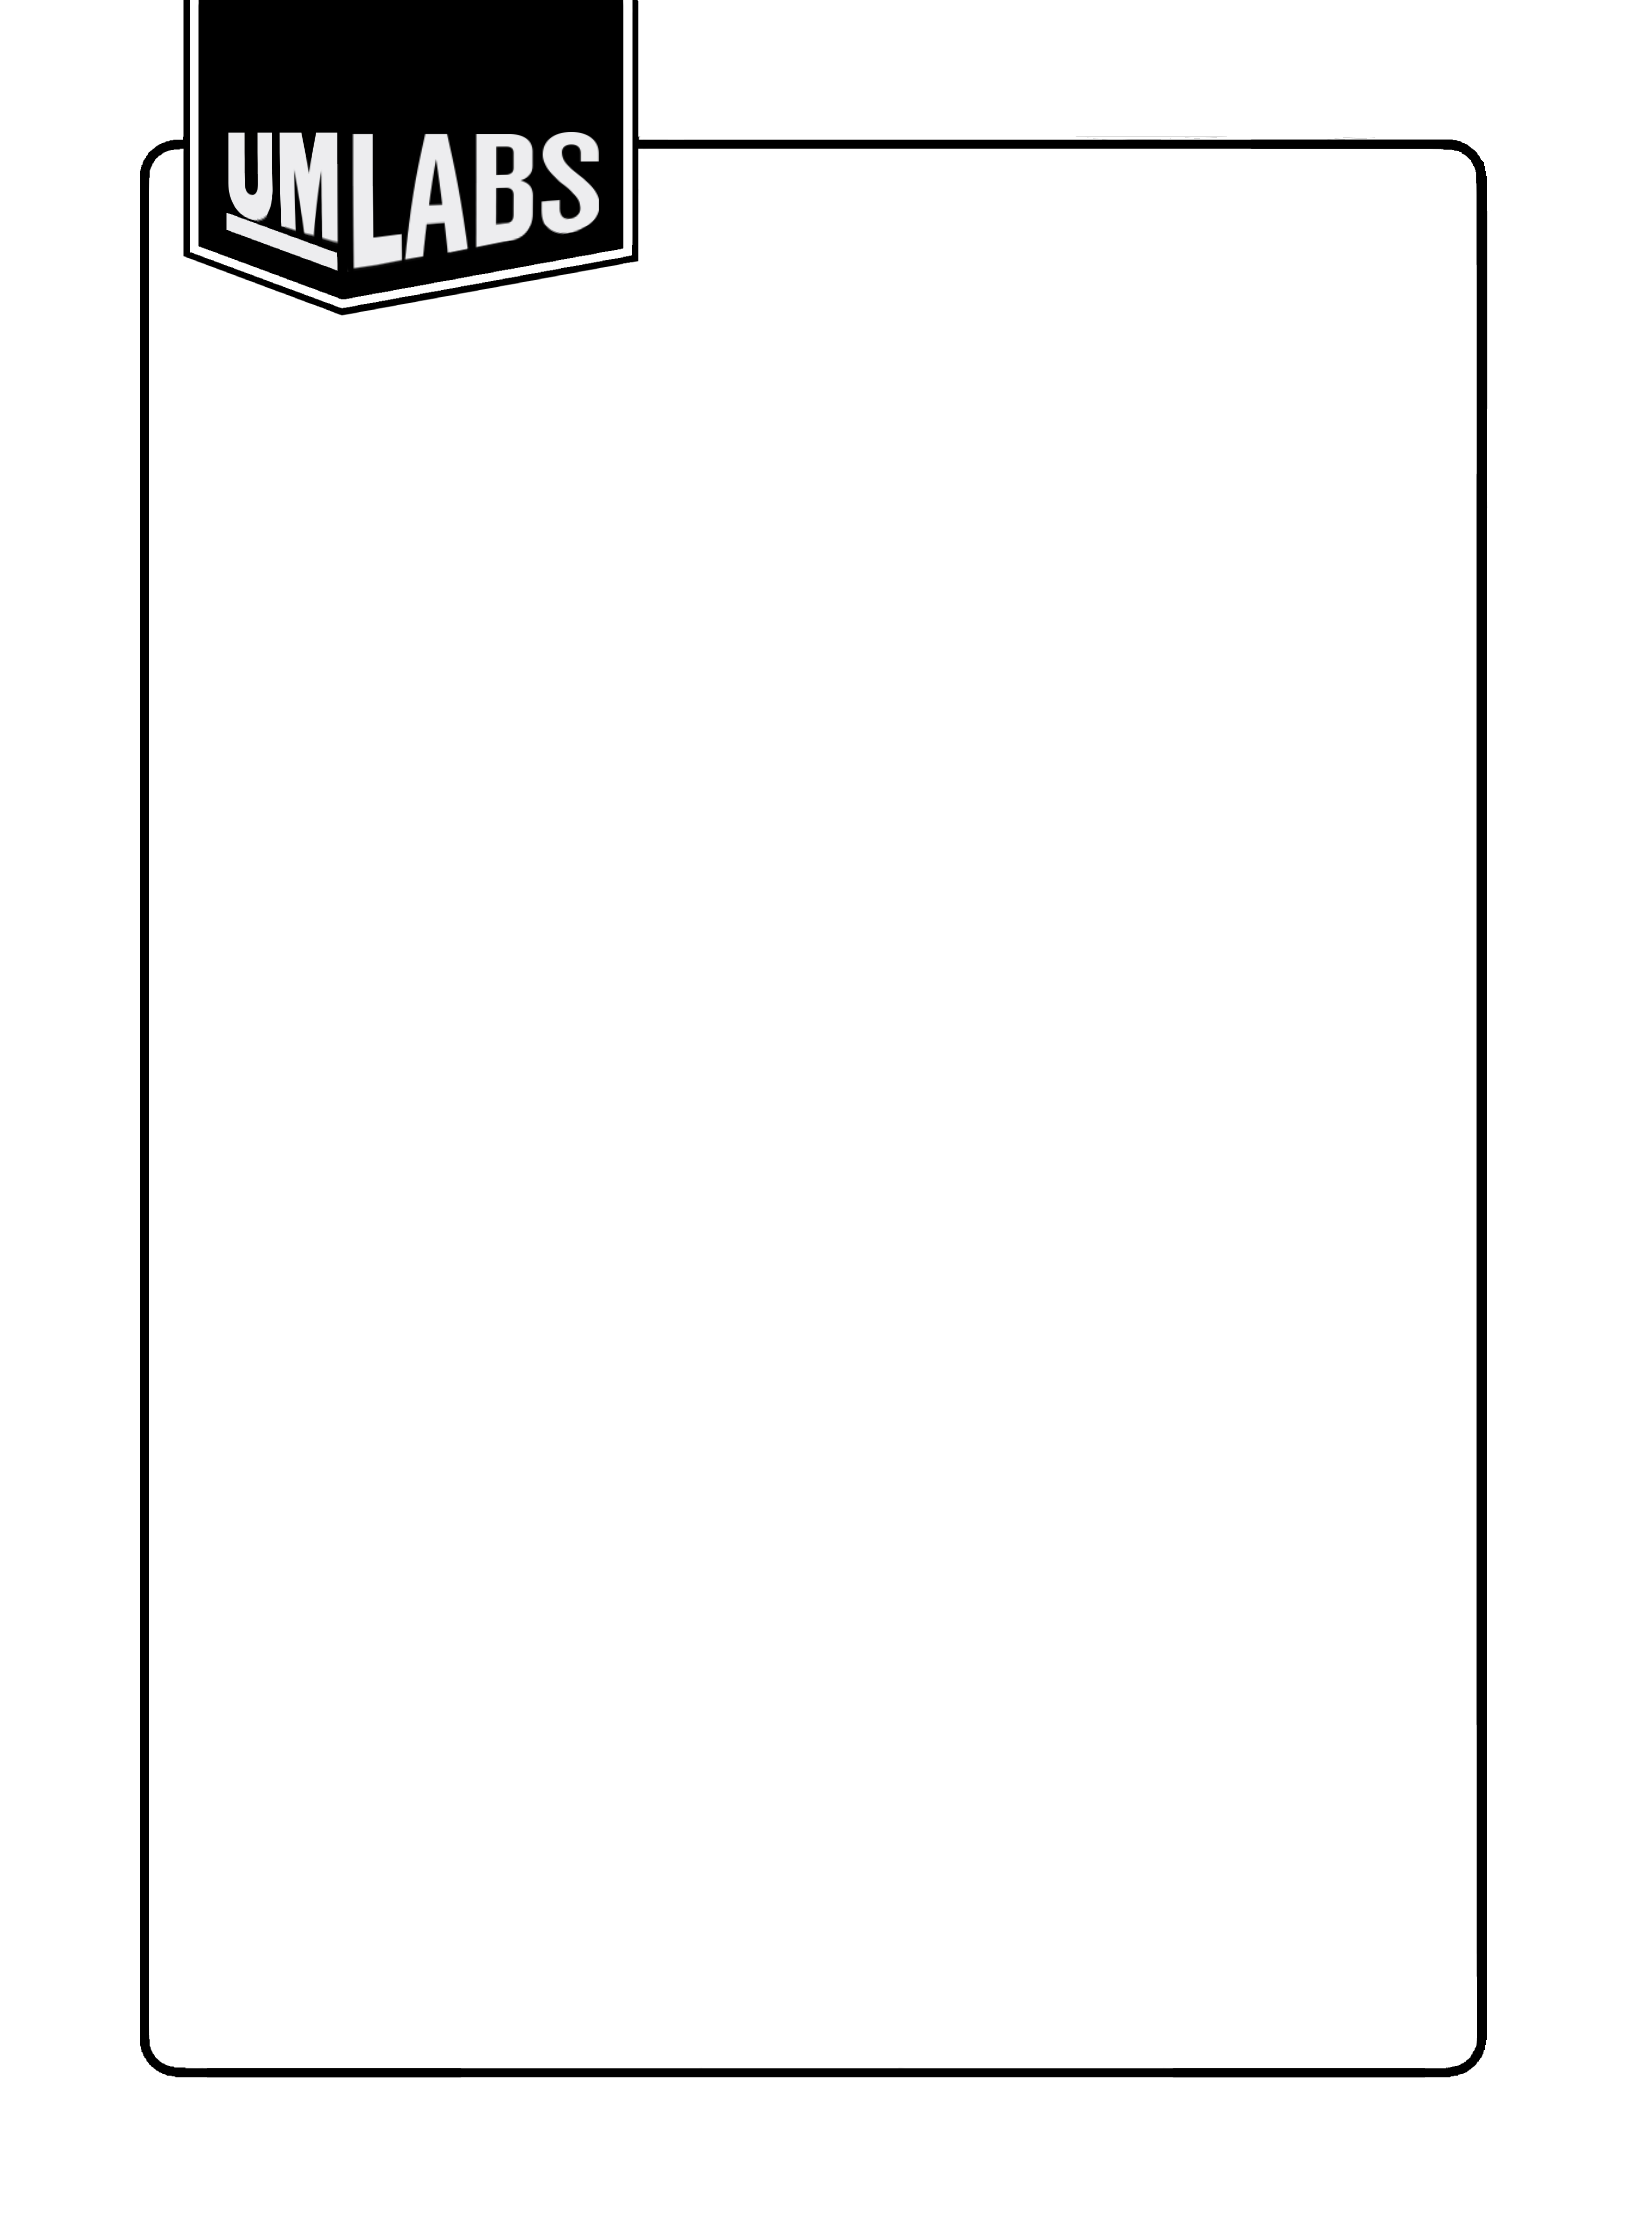
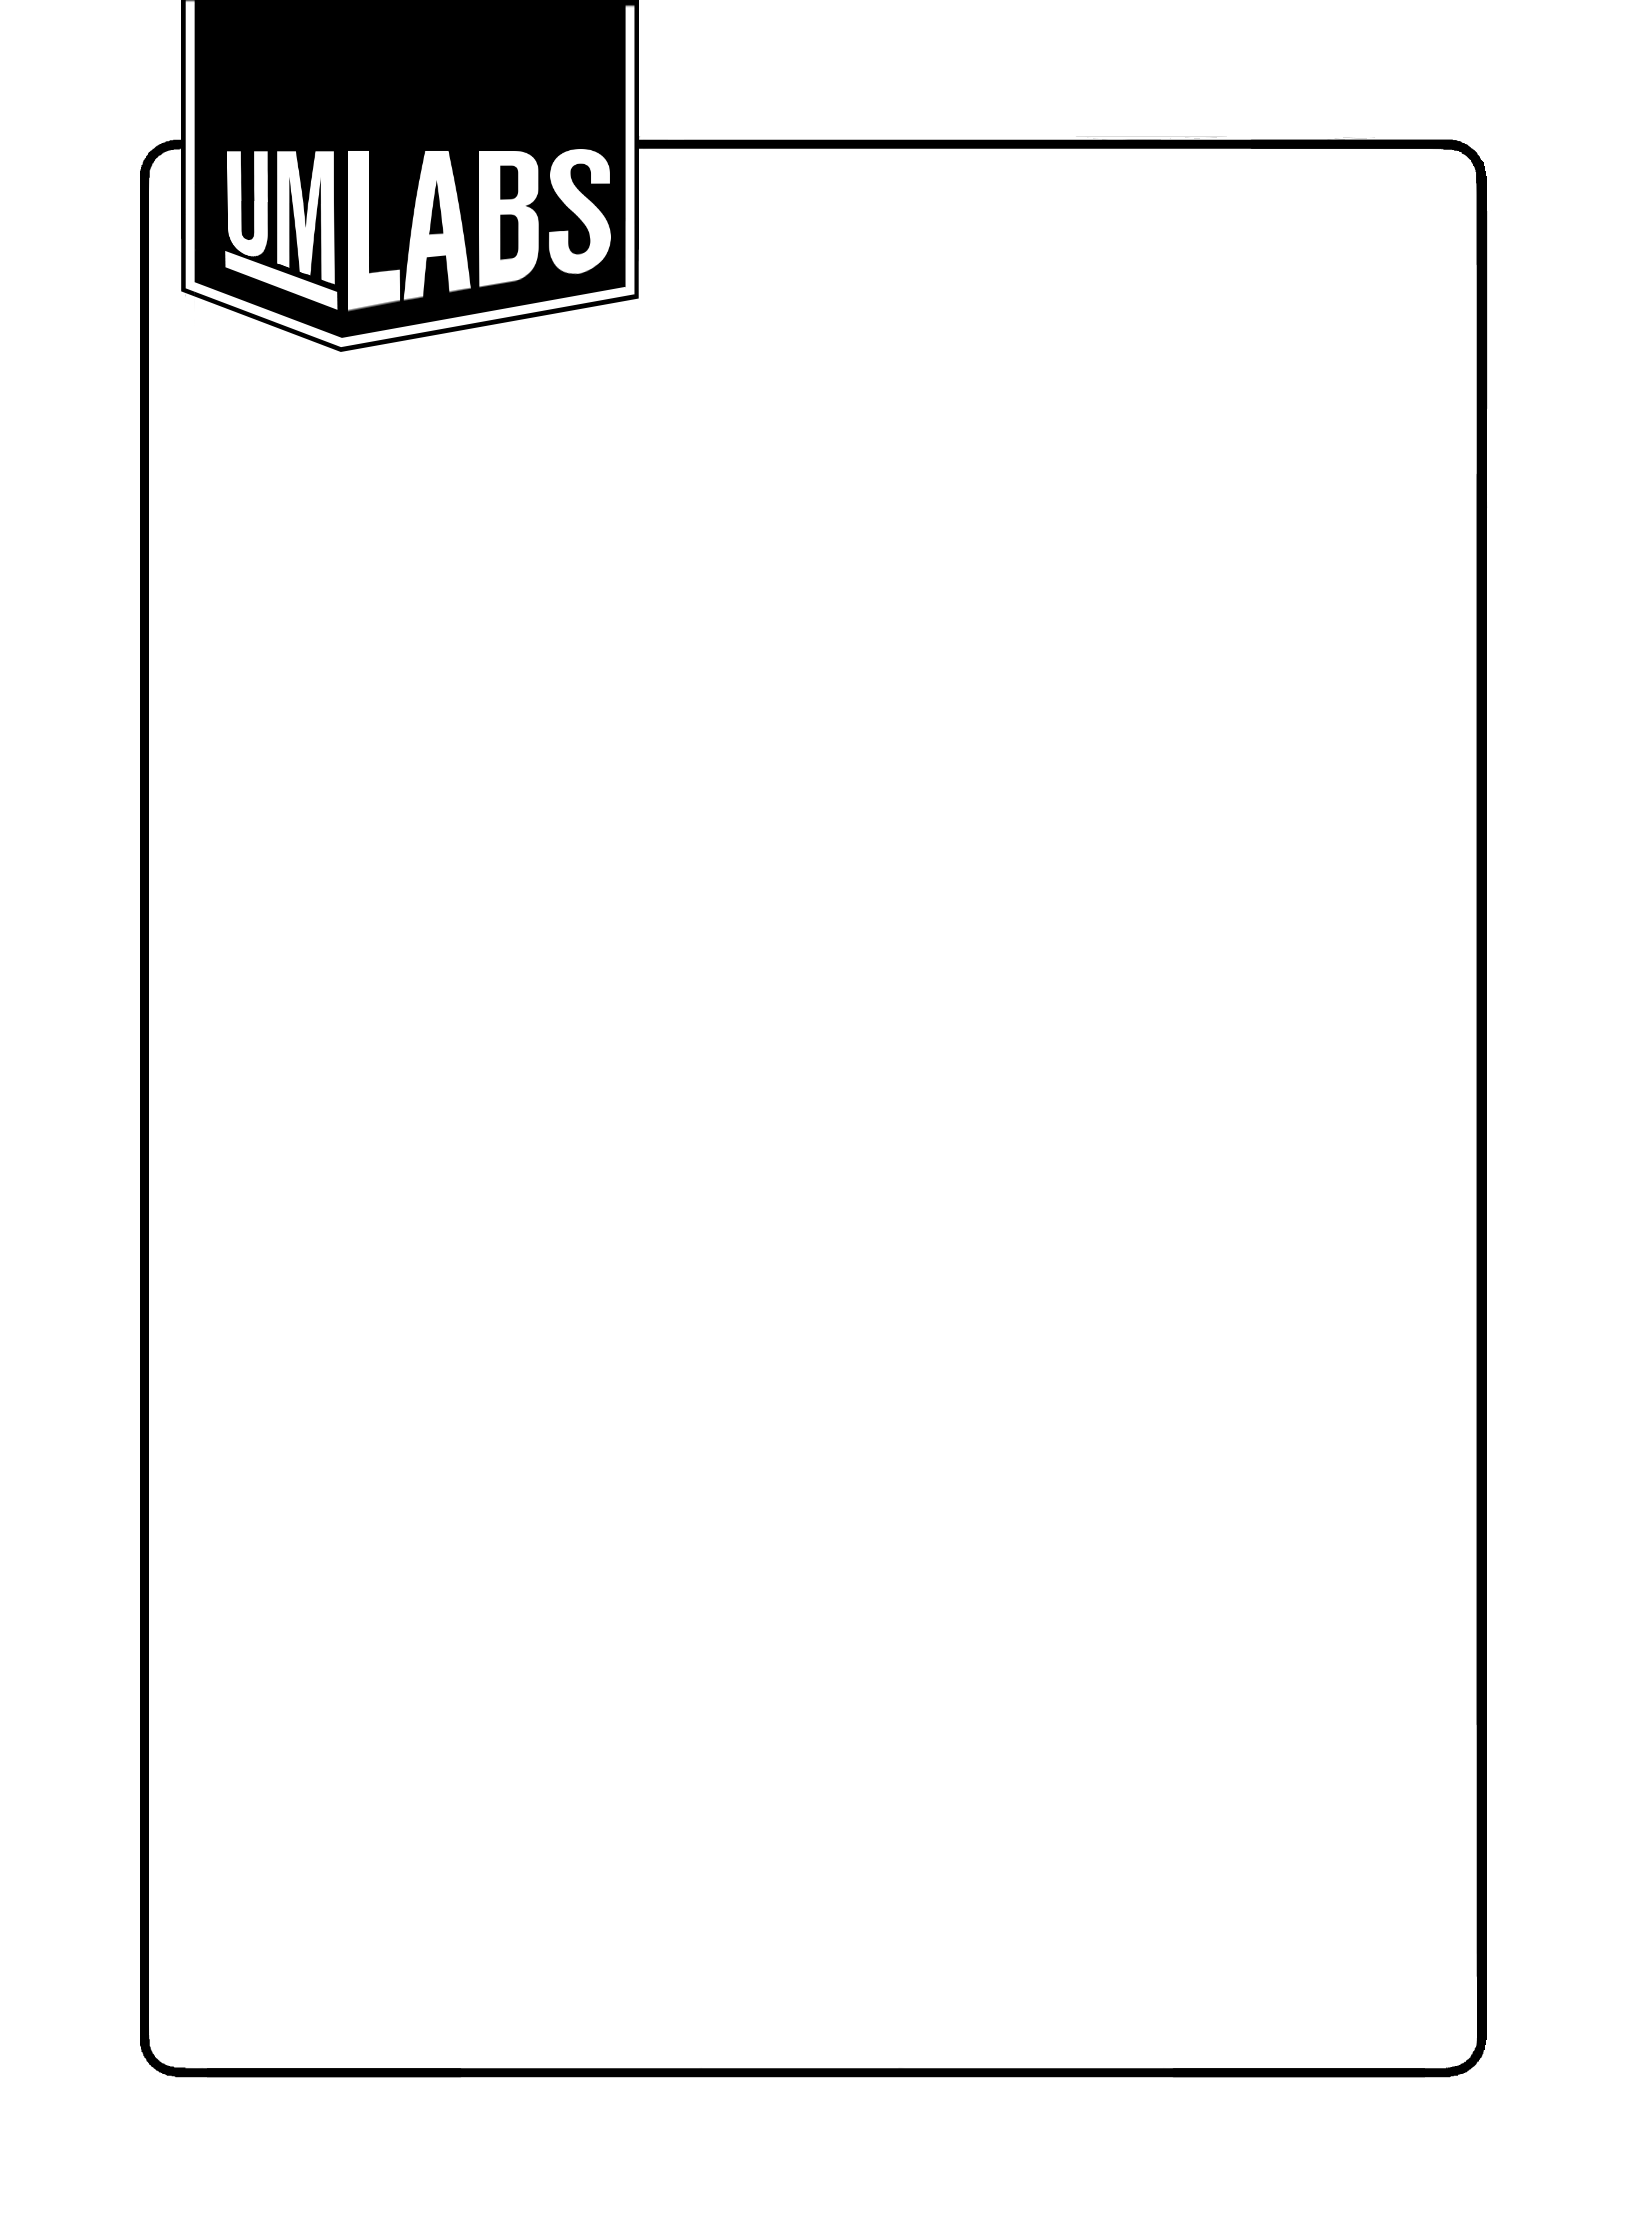
Use updated Hero deck-back template

Changed region(s): [[0.0938, 0.0, 0.4062, 0.1555]]

diff --git a/src/lib/renderer/HeroCardbackFace.svelte b/src/lib/renderer/HeroCardbackFace.svelte
@@ -10,9 +10,11 @@
    * *inside* a ring the template draws, where the UMLABS hero frame is only
    * a line near the edge, so this back's own artwork runs the full bleed
    * canvas behind it rather than being boxed into a smaller window. The
-   * supplied lockup is split into frame and logo masks: the former follows
-   * `back.frame`, while the contrasting mark follows `back.ink` along with
-   * the hero name. That keeps both existing colour controls meaningful.
+   * supplied two-tone lockup is read directly from
+   * `UMLabs_Cardback_Template.png`: its complete alpha supplies the frame
+   * layer, while its white/luminance pixels supply the contrasting mark in
+   * `back.ink` along with the hero name. That keeps both existing colour
+   * controls meaningful without letting derived masks drift behind the source.
    */
   import { fillCss } from '$lib/cards/style';
   import type { Character } from '$lib/characters/types';
@@ -40,9 +42,9 @@
     <CardArt artwork={back.artwork} background="transparent" />
   </div>
 
-  <!-- The template's border and logo badge, recoloured — see the file note above. -->
-  <div class="mask frame" style:background={fillCss(back.frame)}></div>
-  <div class="mask logo" style:background={back.ink}></div>
+  <!-- Two readings of the one source template preserve its two colour roles. -->
+  <div class="mask template-frame" style:background={fillCss(back.frame)}></div>
+  <div class="mask template-ink" style:background={back.ink}></div>
 
   <div
     class="name"
@@ -65,20 +67,20 @@
     position: absolute;
     inset: 0;
     pointer-events: none;
+    mask-image: url('/assets/templates/UMLabs_Cardback_Template.png');
+    -webkit-mask-image: url('/assets/templates/UMLabs_Cardback_Template.png');
     mask-size: 100% 100%;
     -webkit-mask-size: 100% 100%;
     mask-repeat: no-repeat;
     -webkit-mask-repeat: no-repeat;
   }
 
-  .frame {
-    mask-image: url('/assets/templates/umlabs_cardback_frame.png');
-    -webkit-mask-image: url('/assets/templates/umlabs_cardback_frame.png');
+  .template-frame {
+    mask-mode: alpha;
   }
 
-  .logo {
-    mask-image: url('/assets/templates/umlabs_cardback_logo.png');
-    -webkit-mask-image: url('/assets/templates/umlabs_cardback_logo.png');
+  .template-ink {
+    mask-mode: luminance;
   }
 
   .name {

diff --git a/src/lib/renderer/geometry.ts b/src/lib/renderer/geometry.ts
@@ -1716,10 +1716,11 @@ export const CARDBACK = {
 
 /**
  * A hero's own back, at the action card's bleed canvas — see
- * `HeroCardbackFace`. The UMLABS frame carries a thin rounded line plus its
- * upper-left logo badge, not a ring like the villain/minion template, so
- * this back's own art is never boxed in behind it. `frame` records the outer
- * rounded line, excluding the badge that rises above it; the name remains
+ * `HeroCardbackFace`. `UMLabs_Cardback_Template.png` carries a thin rounded
+ * line plus its upper-left logo badge, not a ring like the villain/minion
+ * template, so this back's own art is never boxed in behind it. The renderer
+ * reads the two-tone source as two colour layers; `frame` records the outer
+ * rounded line, excluding the badge that rises above it, and the name remains
  * placed against its lower-right corner.
  */
 export const HERO_CARDBACK = {

diff --git a/src/lib/characters/types.ts b/src/lib/characters/types.ts
@@ -72,9 +72,10 @@ export interface CardbackDesign {
   /**
    * The printed border's own colour. Both `CardbackFace` (villain/minion)
    * and `HeroCardbackFace` draw their own template's line art as a themed
-   * mask over this — the same "art as an alpha mask over a fill" technique
-   * every other recolourable template in this app uses — rather than as a
-   * flat overlay.
+   * mask over this — the same "art as a mask over a fill" technique every
+   * other recolourable template in this app uses — rather than as a flat
+   * overlay. The Hero template is two-tone, so its second mask reading keeps
+   * the contrasting logo tied to `ink`.
    */
   frame: Fill;
 }
